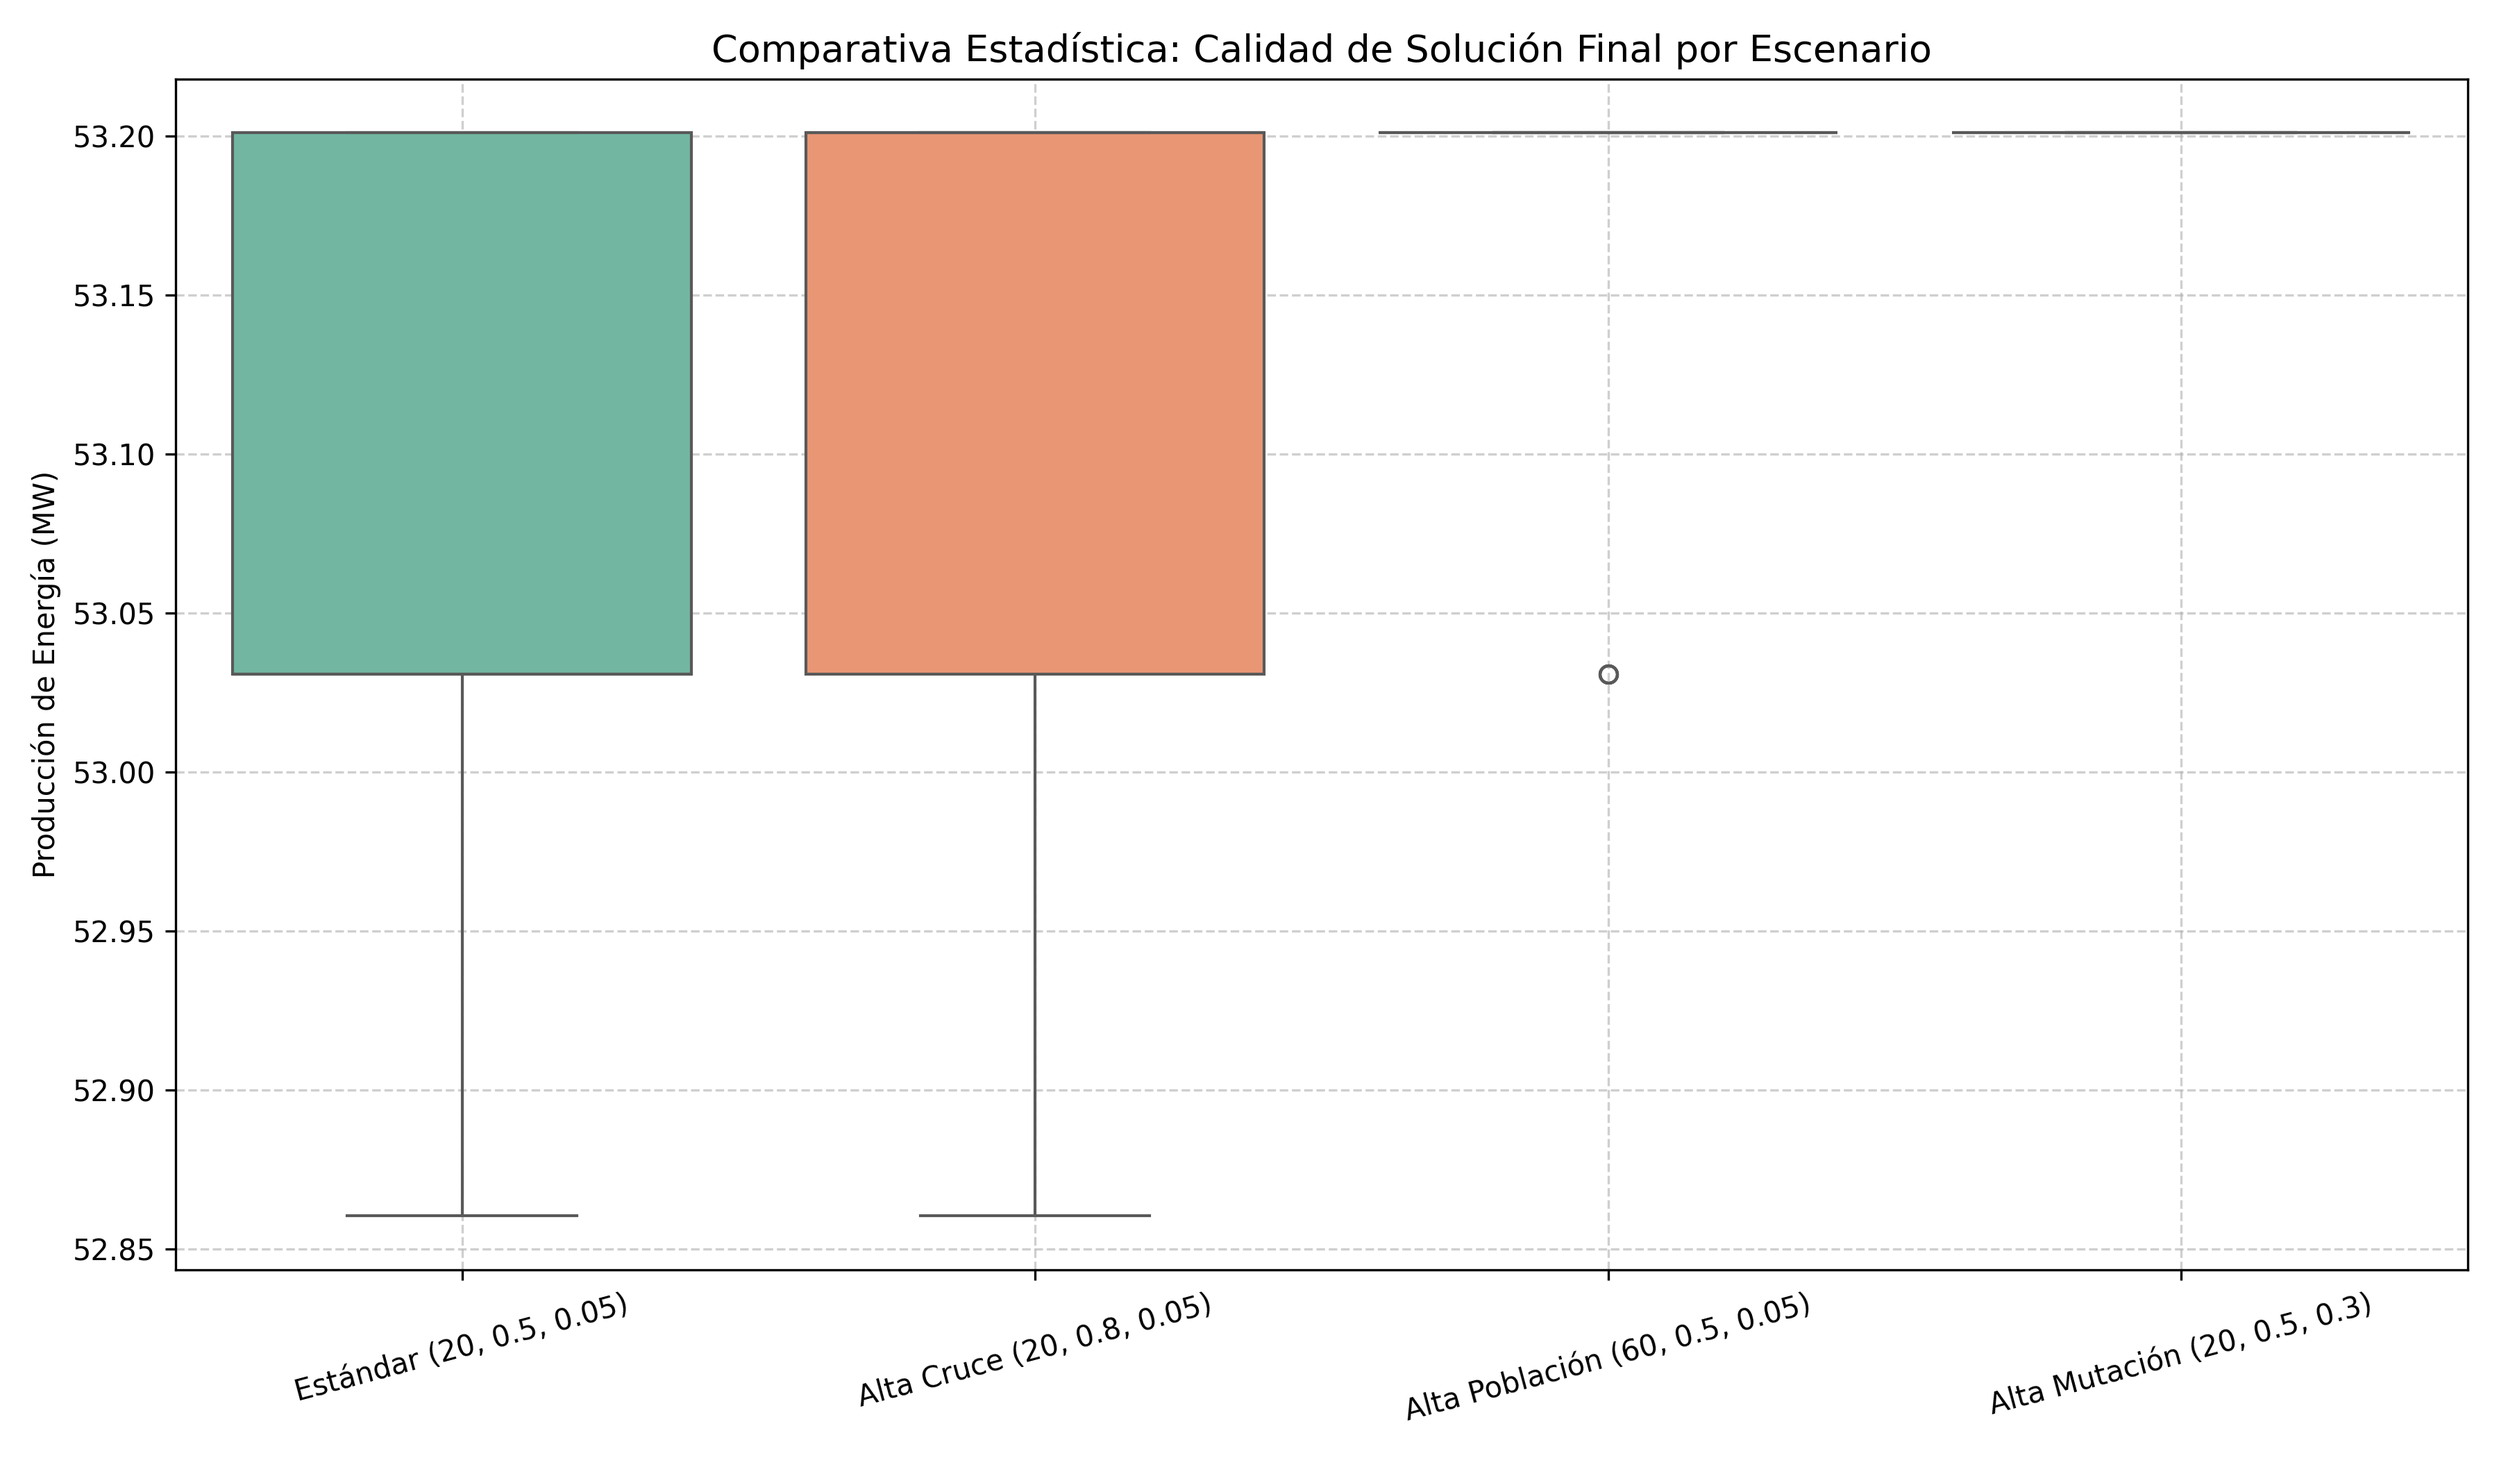
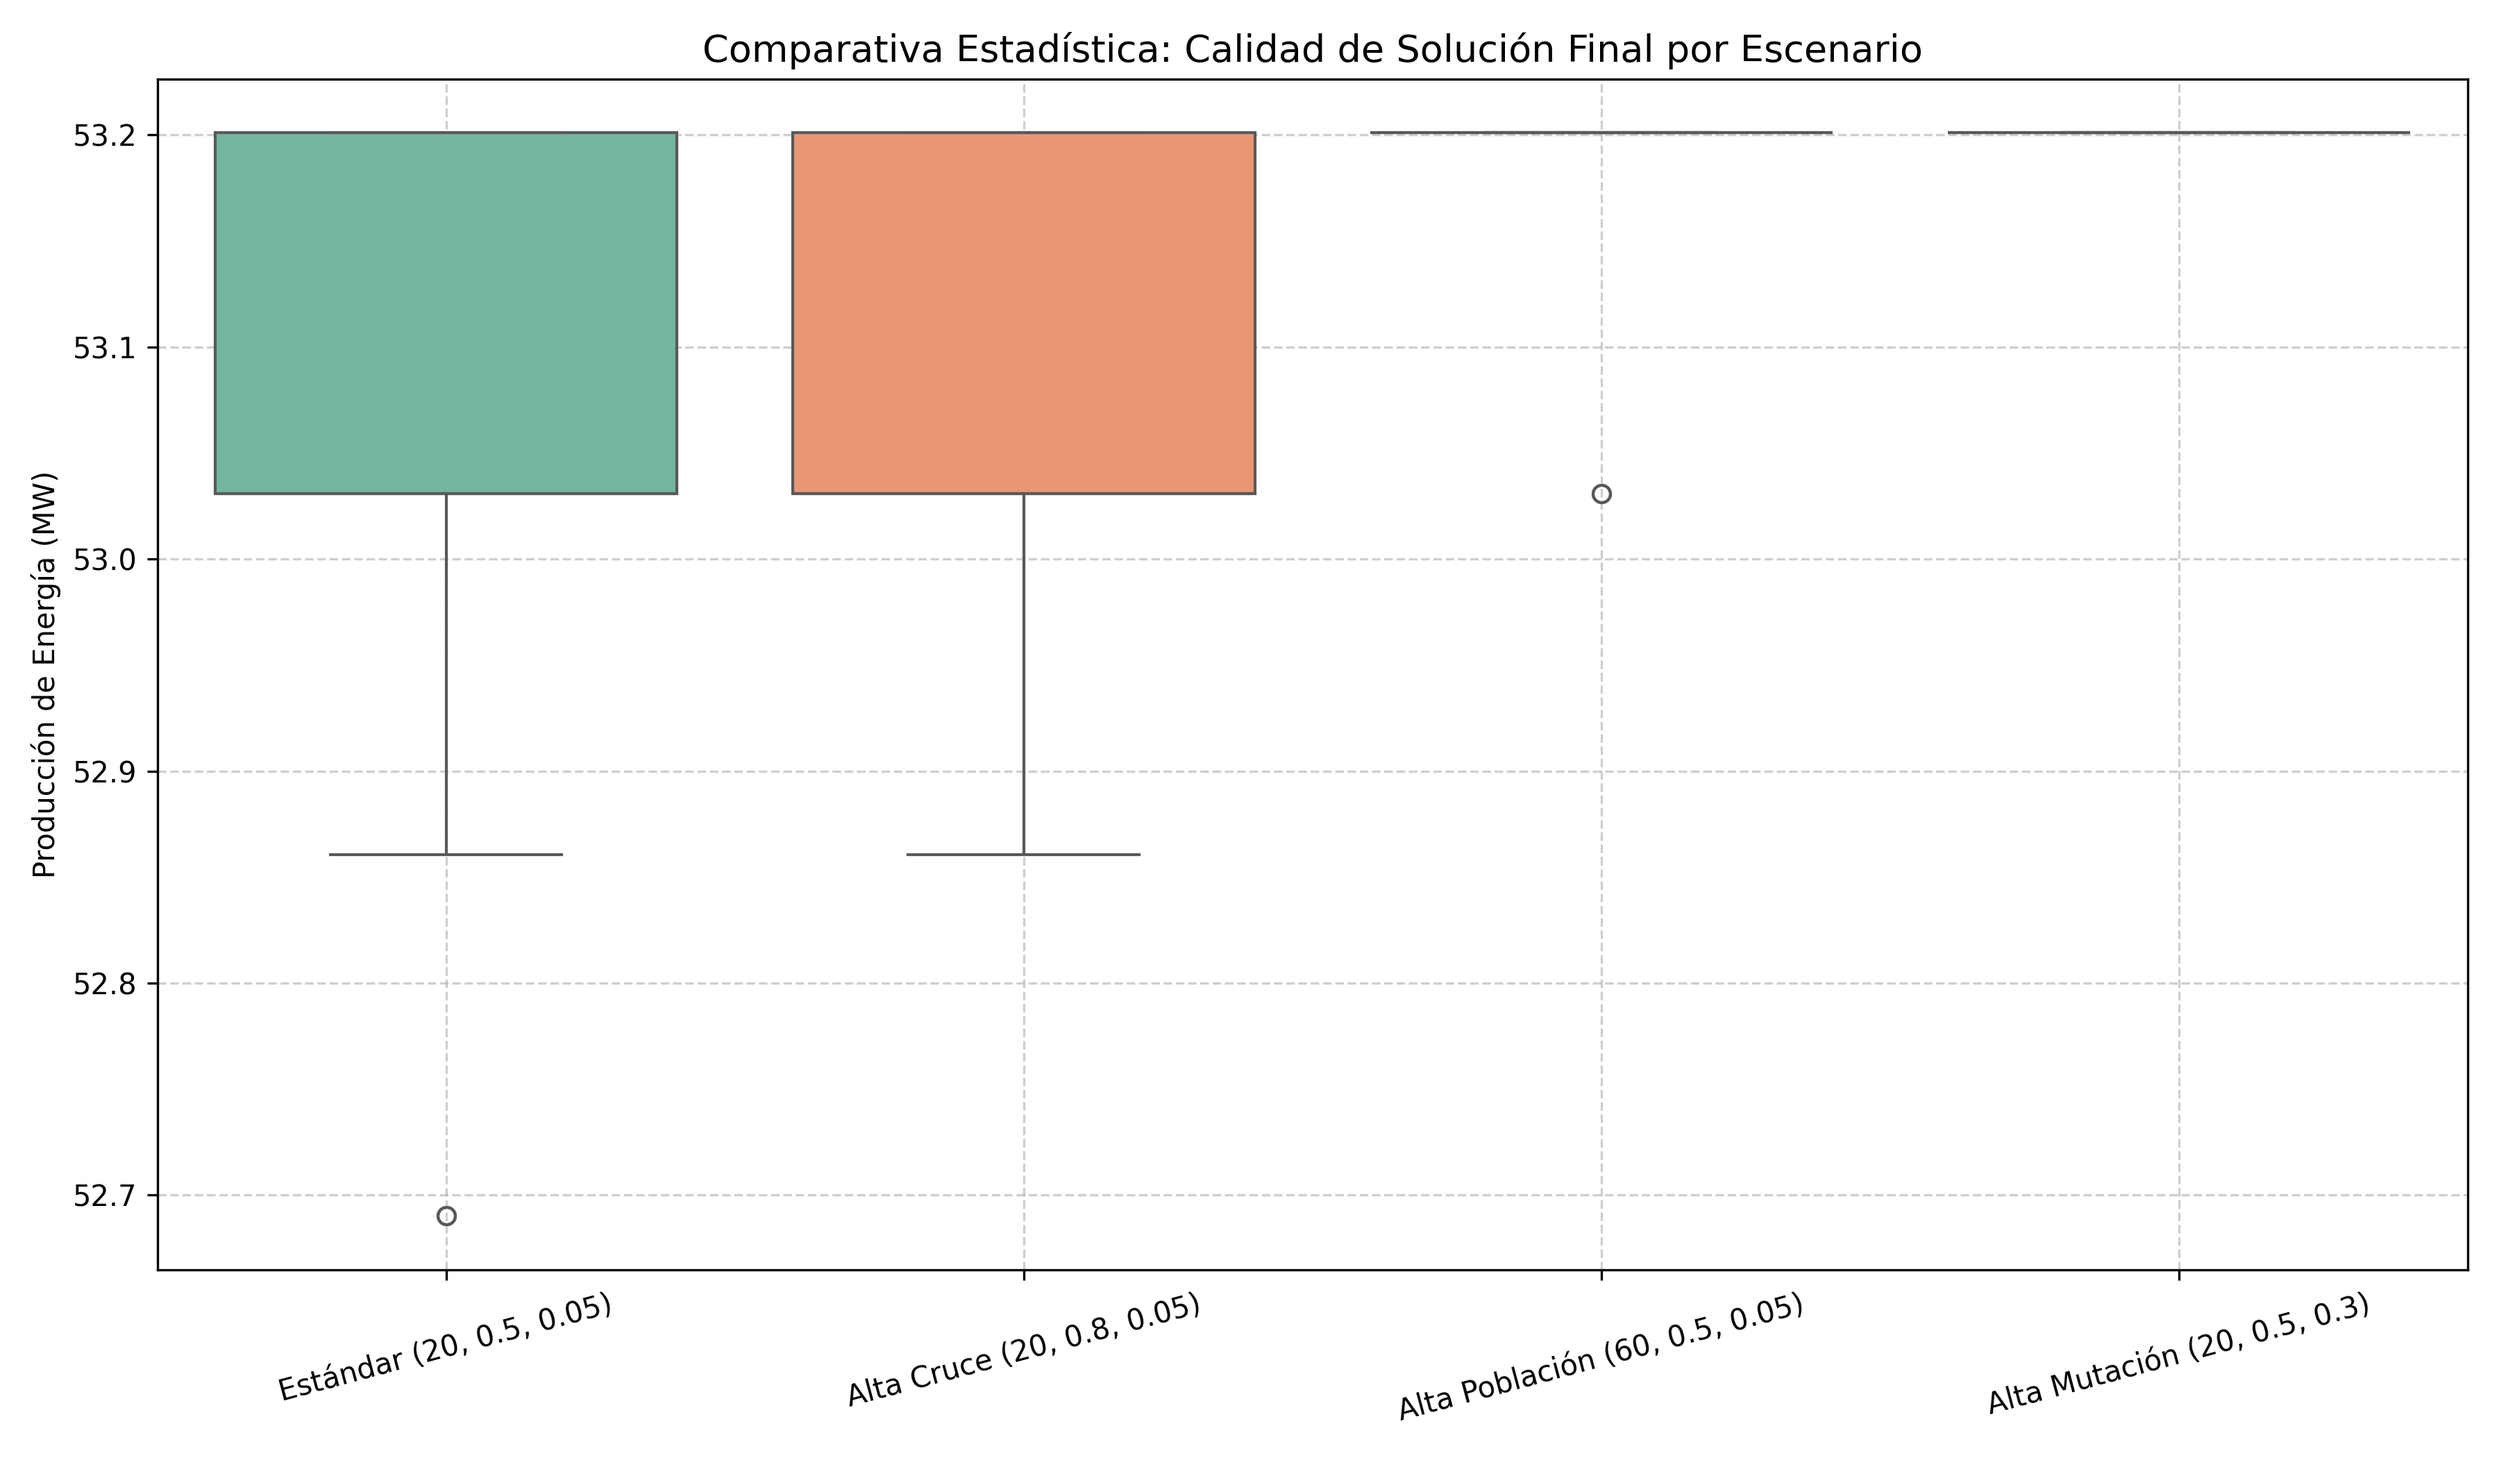
Test Estadistico v2

diff --git a/ProyectoAerogeneradores/main.py b/ProyectoAerogeneradores/main.py
@@ -323,11 +323,11 @@ def correr_analisis_comparativo():
 
 def realizar_test_normalidad_ks(todos_los_resultados):
     """
-    Aplica el test de normalidad de Kolmogorov-Smirnov sobre los datos en memoria,
-    imprimiendo en consola si son o no normales de forma directa.
+    Aplica el test de normalidad de Kolmogorov-Smirnov sobre los datos para verificar la normalidad de los datos
     """
     print("\n" + "=" * 80)
-    print(" ANÁLISIS DE NORMALIDAD (TEST DE KOLMOGOROV-SMIRNOV)")
+    print(" ANÁLISIS DE NORMALIDAD TEST DE KOLMOGOROV-SMIRNOV")
+    print("Nivel de significancia (alpha): 0.05\n")
     print("=" * 80)
     
     alpha = 0.05
@@ -351,8 +351,7 @@ def realizar_test_normalidad_ks(todos_los_resultados):
         resultado_str = "SÍ ES NORMAL (Éxito)" if es_normal else "NO ES NORMAL (Fallo)"
         
         print(f"  Estadístico KS: {stat:.5f} | p-valor: {p_val:.5e}")
-        print(f"  Resultado: {resultado_str}")
-        print("-" * 80)
+        print(f"  Resultado: {resultado_str} \n")
     print("=" * 80 + "\n")
 
 
@@ -362,11 +361,12 @@ def realizar_test_kruskal_wallis(todos_los_resultados):
     de los 4 escenarios para verificar si son estadísticamente iguales entre sí.
     """
     print("\n" + "=" * 80)
-    print(" ANÁLISIS COMPARATIVO DE DISTRIBUCIONES: TEST DE KRUSKAL-WALLIS")
+    print(" ANÁLISIS: TEST DE KRUSKAL-WALLIS")
     print("=" * 80)
-    print("Hipótesis Nula (H0): Los 4 escenarios tienen distribuciones idénticas (medianas iguales).")
-    print("Hipótesis Alternativa (H1): Al menos un escenario difiere significativamente.\n")
-    
+    print("Hipótesis Nula (H0): Las medianas de la potencia energética obtenida (MW) son idénticas en todos los escenarios evaluados (el comportamiento del algoritmo no depende de la configuración).")
+    print("Hipótesis Alternativa (H1): Al menos una de las configuraciones presenta una mediana de potencia significativamente distinta a las demás (existe una configuración superior o inferior al resto).")
+    print("Nivel de significancia (alpha): 0.05\n")
+
     alpha = 0.05
     listas_valores = list(todos_los_resultados.values())
     
@@ -393,8 +393,8 @@ def realizar_test_wilcoxon_parejas(todos_los_resultados):
     print("\n" + "=" * 80)
     print(" ANÁLISIS COMPARATIVO EN PAREJAS: TEST DE WILCOXON")
     print("=" * 80)
-    print("Hipótesis Nula (H0): No hay diferencia sistemática entre ambos escenarios.")
-    print("Hipótesis Alternativa (H1): Existe una diferencia significativa entre ambos escenarios.")
+    print("Hipótesis Nula (H0): No existe diferencia estadísticamente significativa entre las medianas de potencia de los dos escenarios comparados (el par de escenarios es equivalente).")
+    print("Hipótesis Alternativa (H1): Existe una diferencia estadísticamente significativa entre las medianas de potencia de los dos escenarios comparados.")
     print("Nivel de significancia (alpha): 0.05\n")
     
     nombres = list(todos_los_resultados.keys())
@@ -418,7 +418,7 @@ def realizar_test_wilcoxon_parejas(todos_los_resultados):
             continue
             
         try:
-            # Test Wilcoxon Signed-Rank
+            # Test Wilcoxon
             stat, p_val = stats.wilcoxon(val1, val2)
             
             # Interpretación
@@ -427,13 +427,12 @@ def realizar_test_wilcoxon_parejas(todos_los_resultados):
             
             print(f"  Estadístico Wilcoxon: {stat:.1f}")
             print(f"  p-valor: {p_val:.5e}")
-            print(f"  Resultado: {resultado_str}")
+            print(f"  Resultado: {resultado_str} \n")
             
         except Exception as e:
             # Control por si falla por otra razón estadística
             print(f"  No se pudo realizar el test Wilcoxon: {e}")
             
-        print("-" * 80)
     print("=" * 80 + "\n")
 
 
